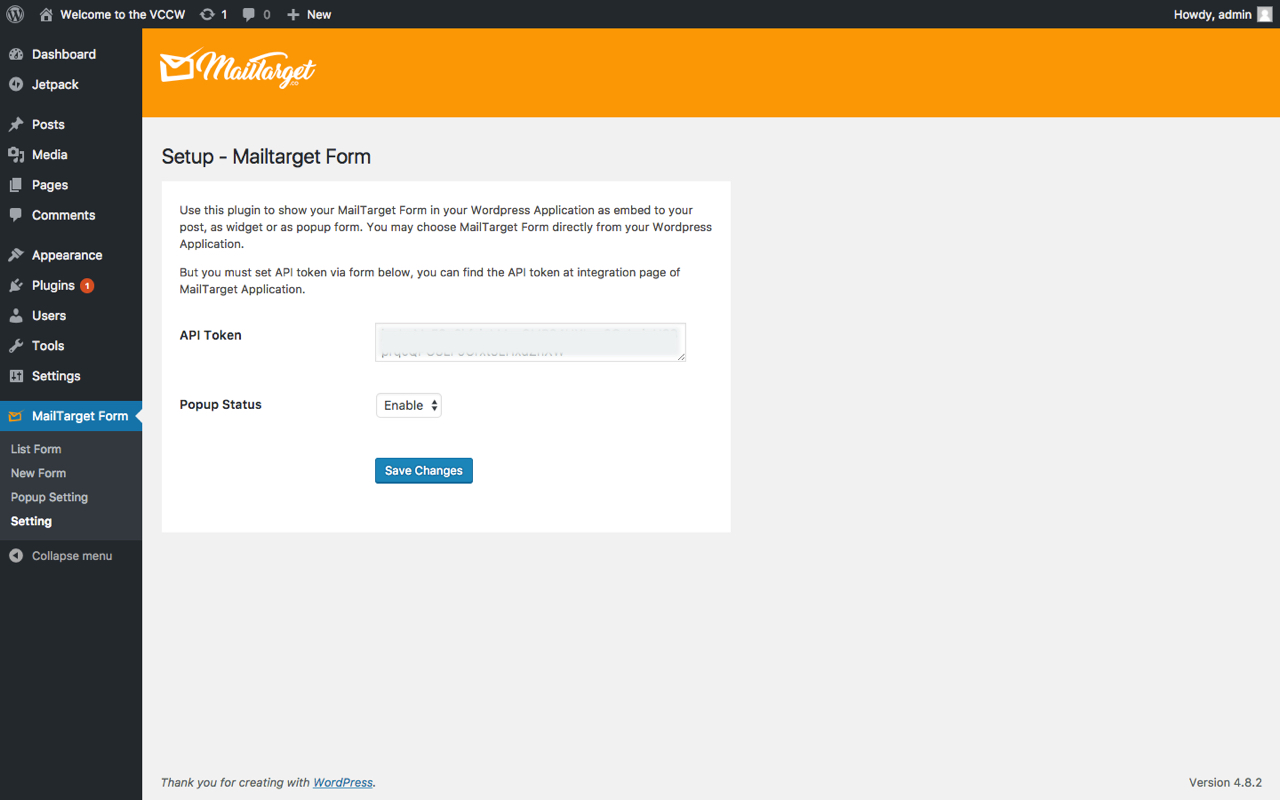
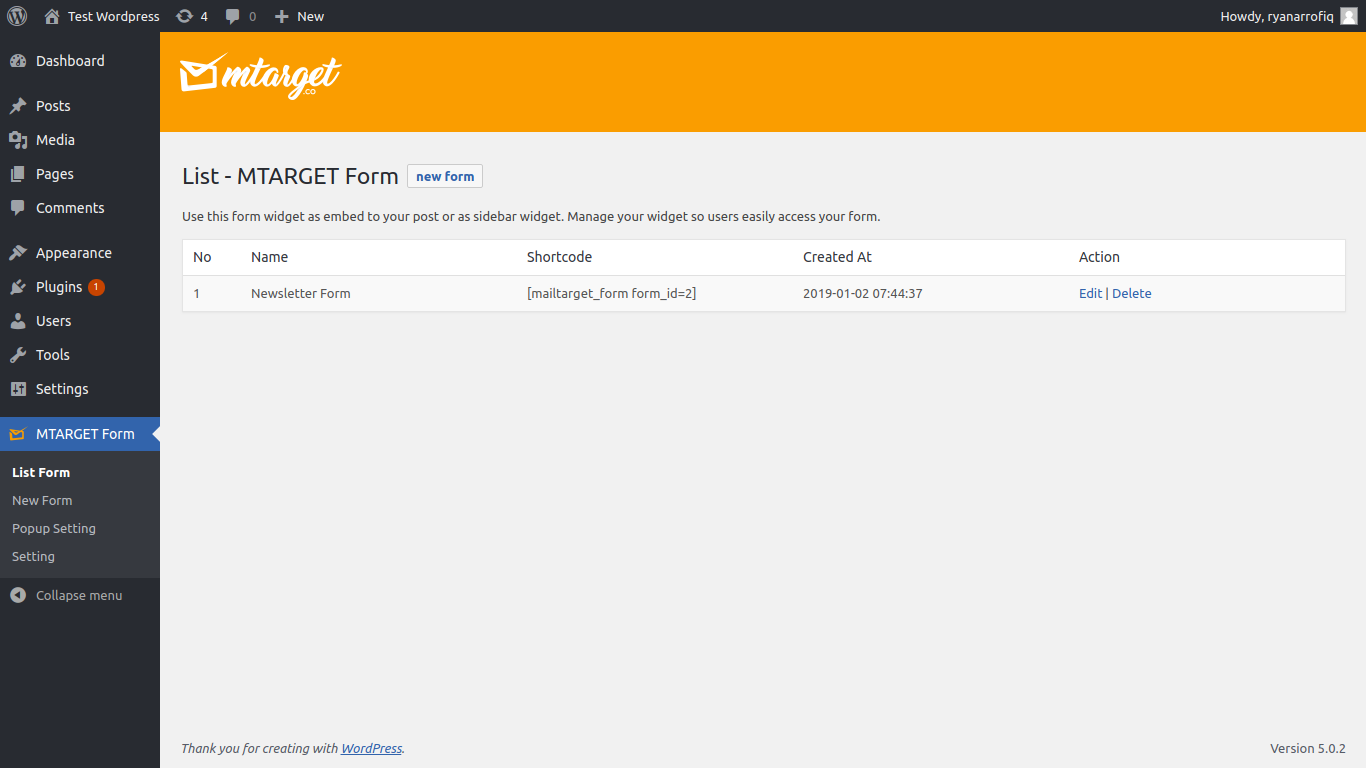
update from MailTarget to MTARGET

diff --git a/views/admin/setup.php b/views/admin/setup.php
@@ -3,7 +3,7 @@ $popupEnable = esc_attr(get_option('mtg_popup_enable')) == '1';
 ?>
 
 <?php if (isset($_GET['success'])) {
-    ?><div class="update-nag">Mailtarget Form configuration updated successfully !</div><?php
+    ?><div class="update-nag">MTARGET Form configuration updated successfully !</div><?php
 } ?>
 
 <div class="mtg-form-plugin">
@@ -12,10 +12,10 @@ $popupEnable = esc_attr(get_option('mtg_popup_enable')) == '1';
     </div>
 
     <div class="wrap">
-        <h1 class="wp-heading-inline">Setup - Mailtarget Form</h1>
+        <h1 class="wp-heading-inline">Setup - MTARGET Form</h1>
         <div class="mtg-form-wrapper">
-            <p>Use this plugin to show your MailTarget Form in your Wordpress Application as embed to your post, as widget or as popup form. You may choose MailTarget Form directly from your Wordpress Application.</p>
-            <p>But you must set API token via form below, you can find the API token at integration page of MailTarget Application.</p>
+            <p>Use this plugin to show your MTARGET Form in your Wordpress Application as embed to your post, as widget or as popup form. You may choose MTARGET Form directly from your Wordpress Application.</p>
+            <p>But you must set API token via form below, you can find the API token at integration page of MTARGET Application.</p>
             <form method="post" action="admin.php?page=mailtarget-form-plugin--admin-menu">
                 <?php settings_fields( $this->option_group ); ?>
                 <?php do_settings_sections( $this->option_group ); ?>

diff --git a/views/admin/form_popup.php b/views/admin/form_popup.php
@@ -7,7 +7,7 @@ $popupEnable = esc_attr(get_option('mtg_popup_enable')) == '1';
 ?>
 
 <?php if (isset($_GET['success'])) {
-    ?><div class="update-nag">Mailtarget Form Popup configuration updated successfully !</div><?php
+    ?><div class="update-nag">MTARGET Form Popup configuration updated successfully !</div><?php
 } ?>
 
 <div class="mtg-form-plugin">
@@ -16,7 +16,7 @@ $popupEnable = esc_attr(get_option('mtg_popup_enable')) == '1';
     </div>
 
     <div class="wrap">
-        <h1 class="wp-heading-inline">Setup New Form - Mailtarget Form</h1>
+        <h1 class="wp-heading-inline">Setup New Form - MTARGET Form</h1>
         <div class="mtg-form-wrapper">
             <?php if ($formId != '') { ?>
                 <form method="post" action="admin.php?page=mailtarget-form-plugin--admin-menu">
@@ -24,7 +24,7 @@ $popupEnable = esc_attr(get_option('mtg_popup_enable')) == '1';
                     <?php do_settings_sections($this->option_group); ?>
                     <table class="form-table">
                         <tr class="user-rich-editing-wrap">
-                            <th>MailTarget Form Name</th>
+                            <th>MTARGET Form Name</th>
                             <td>
                                 <strong><?php echo esc_attr($formName) ?></strong>
                                 or <a class="page-title-action" href="admin.php?page=mailtarget-form-plugin--admin-menu-widget-form&for=popup">change form</a>

diff --git a/views/admin/error.php b/views/admin/error.php
@@ -25,15 +25,15 @@ if ($code == 413 and $data = 'invalid origin host') $errSlug = 'cap-domain-regis
     </div>
 
     <div class="wrap">
-        <h1 class="">Error - Mailtarget Form</h1>
+        <h1 class="">Error - MTARGET Form</h1>
         <?php switch ($errSlug) {
             case 'unset-api-key':
                 ?><div class="update-nag">Apikey not set, please update your apikey at
-                <a href="admin.php?page=mailtarget-form-plugin--admin-menu-config">mailtarget form setting</a></div><?php
+                <a href="admin.php?page=mailtarget-form-plugin--admin-menu-config">mtarget form setting</a></div><?php
                 break;
             case 'expired-token':
                 ?><div class="update-nag">Apikey invalid or expired, please update your apikey at
-                <a href="admin.php?page=mailtarget-form-plugin--admin-menu-config">mailtarget form setting</a></div><?php
+                <a href="admin.php?page=mailtarget-form-plugin--admin-menu-config">mtarget form setting</a></div><?php
                 break;
             case 'form-not-found':
                 ?><div class="update-nag">Form data not found, possible form not published yet</div><?php

diff --git a/views/admin/wp_form_add.php b/views/admin/wp_form_add.php
@@ -3,14 +3,14 @@
         <img src="<?php echo esc_url(MAILTARGET_PLUGIN_URL.'/assets/image/logo.png') ?>" />
     </div>
     <div class="wrap">
-        <h1 class="wp-heading-inline">Setup New Form - Mailtarget Form</h1>
+        <h1 class="wp-heading-inline">Setup New Form - MTARGET Form</h1>
         <div class="mtg-form-wrapper">
             <form method="post" action="admin.php?page=mailtarget-form-plugin--admin-menu">
                 <?php settings_fields( $this->option_group ); ?>
                 <?php do_settings_sections( $this->option_group ); ?>
                 <table class="form-table">
                     <tr class="user-rich-editing-wrap">
-                        <th>MailTarget Form Name</th>
+                        <th>MTARGET Form Name</th>
                         <td><strong><?php echo esc_attr($form['name']) ?></strong>
                             <input type="hidden" name="form_id" value="<?php echo esc_attr($form['formId']) ?>">
                         </td>

diff --git a/MailtargetFormPlugin.php b/MailtargetFormPlugin.php
@@ -1,11 +1,11 @@
 <?php
 
 /*
-  Plugin Name: MailTarget Form
-  Description: The MailTarget plugin to simplify embedding Mailtarget Form in your post or as widget, also easily to set Mailtarget Forms as popup.
-  Version: 1.0.3
-  Author: MailTarget Teams
-  Author URI: https://mailtarget.co/
+  Plugin Name: MTARGET Form
+  Description: The MTARGET plugin to simplify embedding MTARGET Form in your post or as widget, also easily to set MTARGET Forms as popup.
+  Version: 1.0.4
+  Author: MTARGET Teams
+  Author URI: https://mtarget.co/
   License: GPL V3
  */
 
@@ -421,8 +421,8 @@ class MailtargetFormPlugin {
 
 	function set_admin_menu () {
         add_menu_page(
-            'MailTarget Form',
-            'MailTarget Form',
+            'MTARGET Form',
+            'MTARGET Form',
             'manage_options',
             'mailtarget-form-plugin--admin-menu',
             null,

diff --git a/views/admin/wp_form_edit.php b/views/admin/wp_form_edit.php
@@ -15,7 +15,7 @@ if (isset($data->widget_redir)) $widget_redir = $data->widget_redir;
         <img src="<?php echo esc_url(MAILTARGET_PLUGIN_URL.'/assets/image/logo.png') ?>" />
     </div>
     <div class="wrap">
-        <h1 class="wp-heading-inline">Edit Form - Mailtarget Form</h1>
+        <h1 class="wp-heading-inline">Edit Form - MTARGET Form</h1>
         <div class="mtg-form-wrapper">
             <form method="post" action="admin.php?page=mailtarget-form-plugin--admin-menu">
                 <?php settings_fields( $this->option_group ); ?>

diff --git a/views/admin/form_list.php b/views/admin/form_list.php
@@ -11,8 +11,8 @@ $pg = isset($_GET['pg']) ? intval($_GET['pg']) : 1;
     </div>
 
     <div class="wrap">
-        <h1 class="wp-heading-inline">Select Form - Mailtarget Form</h1>
-        <p>Below is list of your MailTarget Form, select one of your form to setup.</p>
+        <h1 class="wp-heading-inline">Select Form - MTARGET Form</h1>
+        <p>Below is list of your MTARGET Form, select one of your form to setup.</p>
 
         <?php if (count($forms['data']) < 1) {?>
             <div class="update-nag">List empty, start by

diff --git a/views/admin/wp_form_list.php b/views/admin/wp_form_list.php
@@ -3,7 +3,7 @@
         <img src="<?php echo esc_url(MAILTARGET_PLUGIN_URL.'/assets/image/logo.png') ?>" />
     </div>
     <div class="wrap">
-        <h1 class="wp-heading-inline">List - Mailtarget Form</h1>
+        <h1 class="wp-heading-inline">List - MTARGET Form</h1>
         <?php if (count($widgets) < 1) {?>
             <div class="update-nag">List empty, start by
                 <a href="admin.php?page=mailtarget-form-plugin--admin-menu-widget-form">creating one</a></div><?php

diff --git a/README.md b/README.md
@@ -1,7 +1,7 @@
 
-# Mailtarget Wordpress Form Plugin
+# MTARGET Wordpress Form Plugin
 
-This is a plugin for embedding mailtarget form into wordpress application
+This is a plugin for embedding mtarget form into wordpress application
 
 # History
 
@@ -14,8 +14,12 @@ Initial release, features:
 
 ## v1.0.2
 Changes:
-- bug fix handle response from mailtarget api
+- bug fix handle response from mtarget api
 
 ## v1.0.3
 Changes:
 - change form post method from legacy to jquery ajax post
+
+## v1.0.4
+Changes:
+- change form MailTarget to MTARGET
